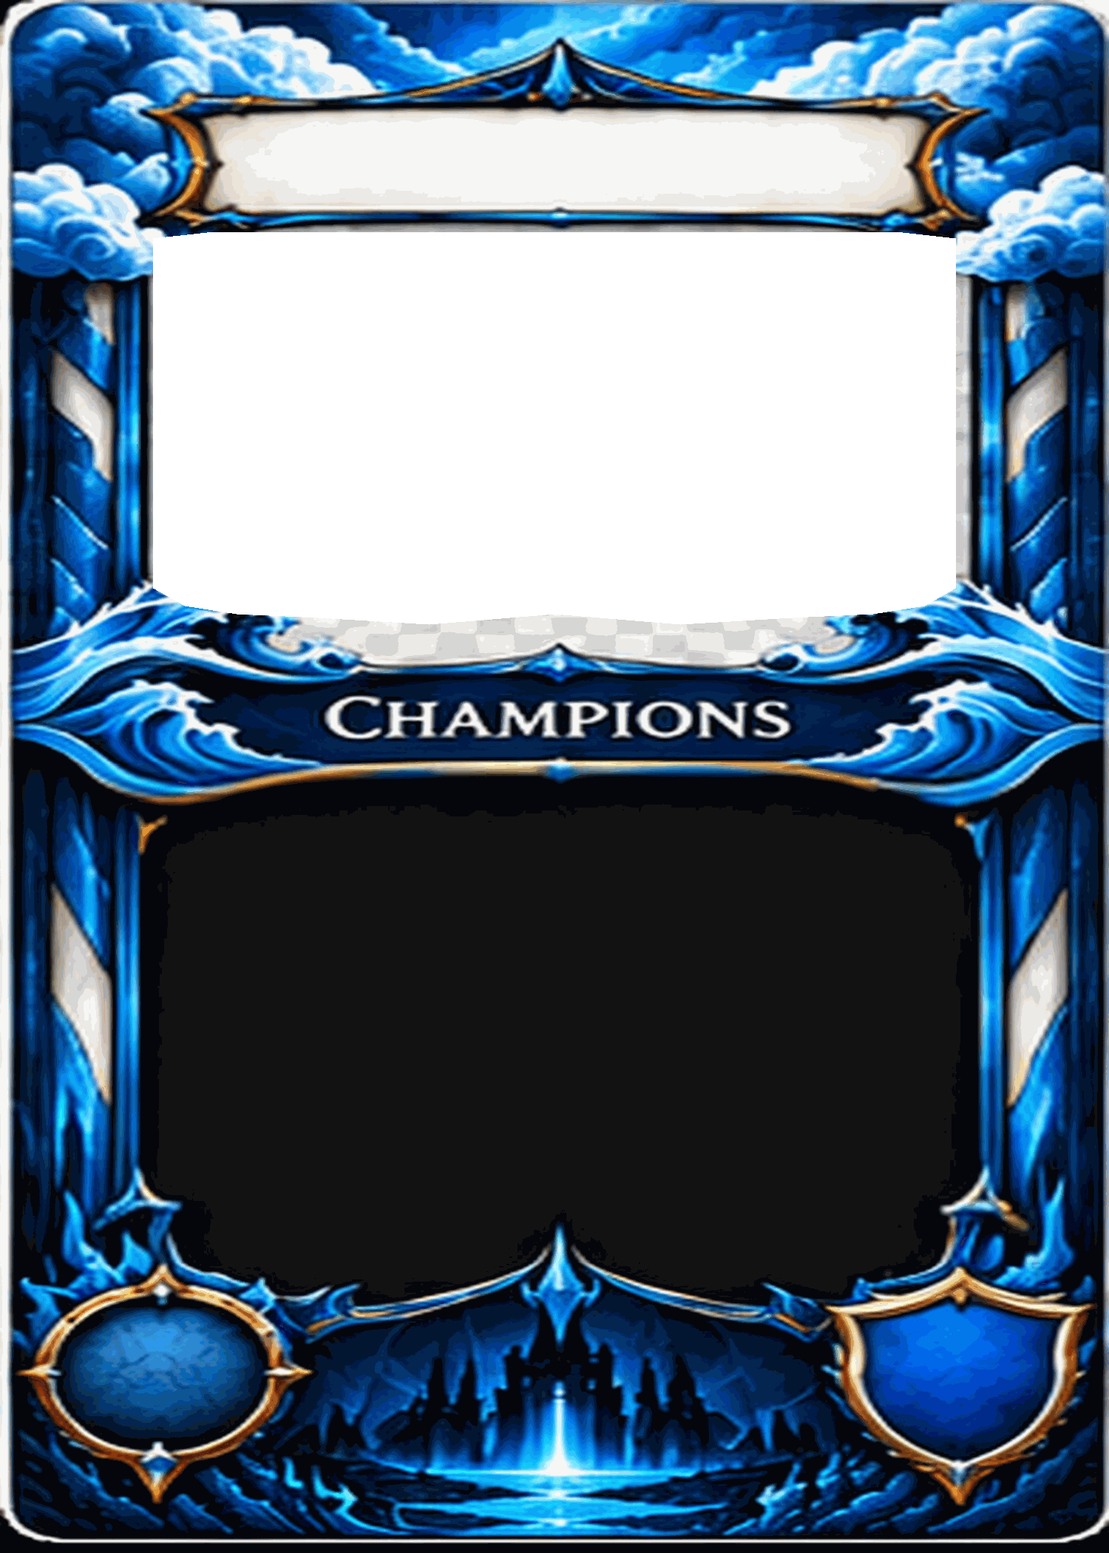
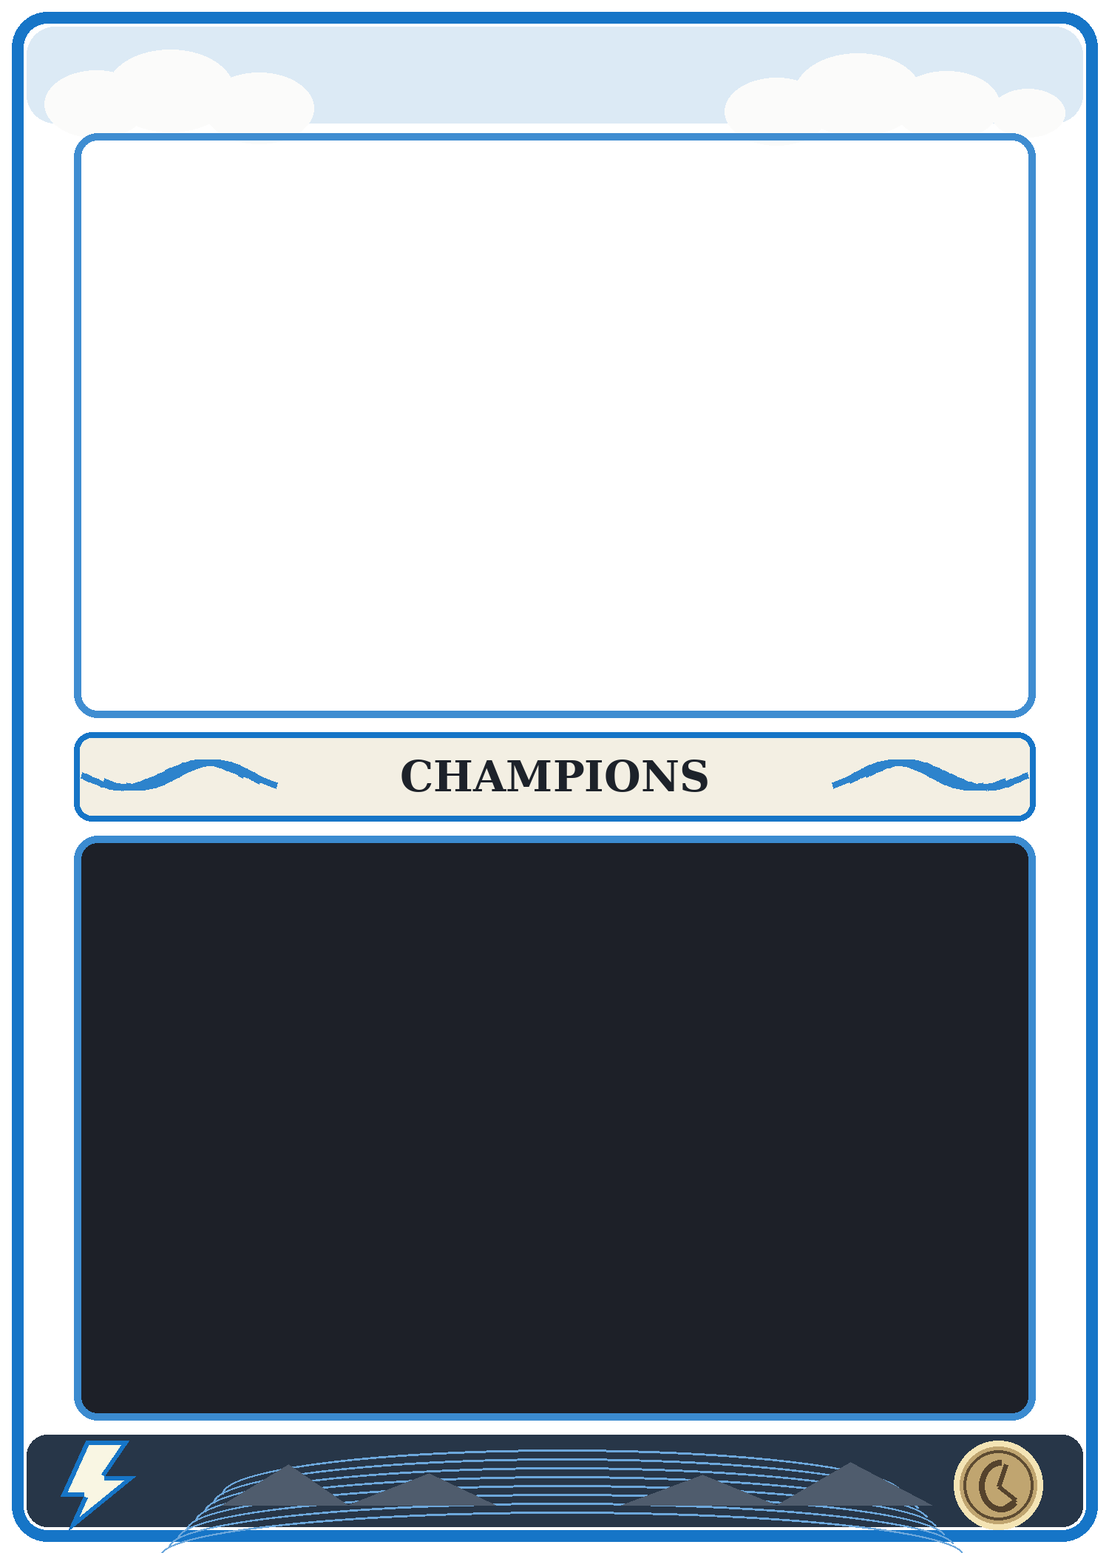
Add files via upload

diff --git a/app.js b/app.js
@@ -1,88 +1,115 @@
+
 'use strict';
-const W=1500,H=2100,artRect={x:205,y:315,w:1090,h:535};
-const $=id=>document.getElementById(id),canvas=$('card'),ctx=canvas.getContext('2d');
-let artwork=null,artData=null,frame=null,frameToken=0;
-const ids=['color','preset','variant','name','rules','cost','vp','zoom','x','y','customTextColor','textColor'];
-const frameCache={};
+const W=1500,H=2100, canvas=document.getElementById('card'),ctx=canvas.getContext('2d');
+const $=id=>document.getElementById(id);
+let art=null,artData=null,frame=null,token=0;
+const cache={};
 function loadFrame(){
   const key=$('color').value+'-'+$('variant').value;
-  const token=++frameToken;
-  if(frameCache[key]){frame=frameCache[key];render();return;}
-  // Works with images in frames/, in the website root, or assets/frames/.
-  // Relative URLs preserve the GitHub Pages repository prefix.
-  const candidates=['./'+key+'.png','./frames/'+key+'.png','./assets/frames/'+key+'.png'];
-  let next=0;
-  function tryNext(){
-    if(token!==frameToken)return;
-    if(next>=candidates.length){
-      frame=null;render();
-      alert('Unable to load frame: '+key+'\nChecked: '+candidates.join(', ')+'\nConfirm the PNG files are committed to the same published branch as index.html.');
-      return;
+  const n=++token;
+  if(cache[key]){frame=cache[key];render();return;}
+  const img=new Image();
+  img.onload=()=>{if(n!==token)return;frame=cache[key]=img;render();};
+  img.onerror=()=>{if(n!==token)return;frame=null;render();alert('Missing frame file: frames/'+key+'.png');};
+  img.src='frames/'+key+'.png';
+}
+function roundedPath(x,y,w,h,r){
+  ctx.beginPath();ctx.roundRect(x,y,w,h,r);
+}
+function textFit(value,x,y,maxWidth,maxSize,minSize,color){
+  const str=String(value||'');if(!str)return;
+  let size=maxSize;
+  do{ctx.font=`bold ${size}px Georgia,serif`;if(ctx.measureText(str).width<=maxWidth)break;size-=2;}while(size>minSize);
+  ctx.fillStyle=color;ctx.textAlign='center';ctx.textBaseline='middle';ctx.fillText(str,x,y,maxWidth);
+}
+function wrapText(value,maxWidth){
+  const lines=[];
+  for(const para of String(value||'').split('\n')){
+    let line='';
+    for(const word of para.split(/\s+/)){
+      const trial=line?line+' '+word:word;
+      if(line&&ctx.measureText(trial).width>maxWidth){lines.push(line);line=word;}else line=trial;
     }
-    const url=candidates[next++];
-    const im=new Image();
-    im.onload=()=>{if(token!==frameToken)return;frameCache[key]=im;frame=im;render();};
-    im.onerror=()=>{console.warn('Frame not found:',url);tryNext();};
-    im.src=url;
+    lines.push(line);
   }
-  tryNext();
-}
-// All text and medallion positions are in the 1500 x 2100 export coordinate system.
-function customColor(defaultColor){const toggle=$('customTextColor'),picker=$('textColor');return toggle&&picker&&toggle.checked?picker.value:defaultColor;}
-function fitText(text,x,y,maxWidth,size,color,align='center',weight=900){
-  if(!text)return;
-  ctx.save();ctx.textAlign=align;ctx.textBaseline='middle';ctx.fillStyle=color;
-  ctx.lineJoin='round';ctx.strokeStyle='rgba(0,0,0,.32)';ctx.lineWidth=3;
-  do{ctx.font=`${weight} ${size}px Georgia,serif`;if(ctx.measureText(String(text)).width<=maxWidth)break;size-=2;}while(size>23);
-  ctx.strokeText(String(text),x,y);ctx.fillText(String(text),x,y);ctx.restore();
-}
-function wrap(text,maxWidth){const lines=[];for(const paragraph of text.split('\n')){let line='';for(const word of paragraph.split(/\s+/).filter(Boolean)){const next=line?line+' '+word:word;if(ctx.measureText(next).width>maxWidth&&line){lines.push(line);line=word;}else line=next;}lines.push(line);}return lines;}
-// Artwork is clipped behind the ornamental top banner, side flourishes and lower crest.
-// Rounded/curved ends replace the old hard-edged rectangular artwork crop.
-function clipArtworkWindow(){
-  ctx.beginPath();
-  ctx.moveTo(280,314);ctx.lineTo(1220,314);
-  ctx.quadraticCurveTo(1292,314,1292,350);ctx.lineTo(1292,795);
-  ctx.bezierCurveTo(1240,828,1160,833,1070,835);
-  ctx.bezierCurveTo(930,844,840,830,750,830);
-  ctx.bezierCurveTo(660,830,570,844,430,835);
-  ctx.bezierCurveTo(340,833,260,828,207,795);
-  ctx.lineTo(207,350);ctx.quadraticCurveTo(207,314,280,314);
-  ctx.closePath();ctx.clip();
+  return lines;
 }
 function render(){
-  ctx.clearRect(0,0,W,H);ctx.fillStyle='#192536';ctx.fillRect(0,0,W,H);
-  if(artwork){ctx.save();ctx.beginPath();clipArtworkWindow();const zoom=+$('zoom').value,scale=Math.max(artRect.w/artwork.width,artRect.h/artwork.height)*zoom;const w=artwork.width*scale,h=artwork.height*scale;ctx.drawImage(artwork,artRect.x+(artRect.w-w)/2+(+$('x').value),artRect.y+(artRect.h-h)/2+(+$('y').value),w,h);ctx.restore();}
-  else{ctx.save();clipArtworkWindow();ctx.fillStyle='#2b3547';ctx.fillRect(artRect.x,artRect.y,artRect.w,artRect.h);ctx.restore();fitText('UPLOAD ARTWORK',750,690,800,58,'#afbac9');}
+  ctx.clearRect(0,0,W,H);
+  ctx.fillStyle='#1d2938';ctx.fillRect(0,0,W,H);
+  // Image is clipped to the exact common art opening, then the transparent frame overlays it.
+  ctx.save();roundedPath(106,186,1288,778,25);ctx.clip();
+  if(art){
+    const zoom=Number($('zoom').value)||1;
+    const scale=Math.max(1288/art.width,778/art.height)*zoom;
+    const w=art.width*scale,h=art.height*scale;
+    ctx.drawImage(art,750-w/2+Number($('x').value),575-h/2+Number($('y').value),w,h);
+  }else{
+    ctx.fillStyle='#b8c5ce';ctx.fillRect(100,180,1300,790);
+  }
+  ctx.restore();
   if(frame)ctx.drawImage(frame,0,0,W,H);
-  // Center medallions stay blank: ornamental waves only.
-  // Ornate wave flourishes are now baked into all 16 frame PNGs.
-  fitText($('name').value,750,208,1030,88,customColor('#18151a'));
+  // Clouds stay white; title sits at top-left with safe margins.
+  ctx.save();ctx.textAlign='left';ctx.textBaseline='middle';
+  let name=String($('name').value||'');let size=65;
+  while(size>30){ctx.font=`bold ${size}px Georgia,serif`;if(ctx.measureText(name).width<910)break;size-=2;}
+  ctx.fillStyle='#1b2737';ctx.fillText(name,150,103,920);
+  ctx.restore();
   const dark=$('variant').value==='black';
-  ctx.save();ctx.textAlign='left';ctx.textBaseline='top';ctx.font='700 52px Georgia,serif';
-  let y=1090;for(const line of wrap($('rules').value,1030)){
-    if(y>1640)break;
-    ctx.font='700 52px Georgia,serif';ctx.fillStyle=customColor(dark?'#ffffff':'#1b1a20');
-    ctx.lineWidth=1.7;ctx.strokeStyle='rgba(0,0,0,.17)';ctx.strokeText(line,230,y);ctx.fillText(line,230,y);y+=68;
-  }ctx.restore();
-  // Bottom cost and VP medallions, centered within the circular artwork.
-  if($('cost').value!=='')fitText($('cost').value,190,1860,150,128,customColor('#ffffff'));
-  if($('vp').value!=='')fitText($('vp').value,1310,1860,150,128,customColor('#ffffff'));
+  const rules=$('rules').value||'';
+  ctx.save();ctx.fillStyle=dark?'#f5f0e6':'#22252d';ctx.textAlign='left';ctx.textBaseline='top';
+  let lines=[],sz=54;
+  for(;sz>=29;sz-=2){ctx.font=`${sz}px Georgia,serif`;lines=wrapText(rules,1110);if(lines.length*sz*1.32<=650)break;}
+  ctx.font=`${sz}px Georgia,serif`;
+  let y=1210;
+  for(const line of lines){if(y+sz>1850)break;ctx.fillText(line,192,y);y+=sz*1.32;}
+  ctx.restore();
+  textFit($('vp').value,125,2012,90,73,36,'#ffffff');
+  textFit($('cost').value,1350,2012,88,69,35,'#28221b');
 }
-function applyPreset(){const p=$('preset').value;if(p==='fate'||p==='misfortune'){$('color').value='white';$('name').value=p==='fate'?'Fate':'Misfortune';$('rules').value=p==='fate'?'+1 Favor':'';$('cost').value='0';$('vp').value=p==='fate'?'0':'1';}loadFrame();}
-function download(url,name){const a=document.createElement('a');a.href=url;a.download=name;document.body.append(a);a.click();a.remove();}
-$('export').onclick=()=>download(canvas.toDataURL('image/png'),(($('name').value||$('color').value).toLowerCase().replace(/[^a-z0-9]+/g,'-')||'card')+'.png');
-$('save').onclick=()=>{const data=Object.fromEntries(ids.filter(id=>$(id)).map(id=>[id,id==='customTextColor'?$(id).checked:$(id).value]));data.artwork=artData;const url=URL.createObjectURL(new Blob([JSON.stringify(data,null,2)],{type:'application/json'}));download(url,'pantheon-card-project.json');setTimeout(()=>URL.revokeObjectURL(url),5000);};
-function setArtData(data){artData=data;if(!data){artwork=null;render();return;}const img=new Image();img.onload=()=>{artwork=img;render();};img.src=data;}
-$('art').onchange=e=>{const f=e.target.files?.[0];if(!f)return;const reader=new FileReader();reader.onload=()=>setArtData(reader.result);reader.readAsDataURL(f);};
-$('load').onchange=async e=>{const f=e.target.files?.[0];if(!f)return;try{const data=JSON.parse(await f.text());for(const id of ids)if(data[id]!=null&&$(id)){if(id==='customTextColor')$(id).checked=!!data[id];else $(id).value=data[id];}syncColorControl();setArtData(data.artwork||null);loadFrame();}catch(err){alert('Could not open project: '+err.message);}};
-$('reset').onclick=()=>{$('preset').value='custom';for(const id of ['name','rules','cost','vp'])$(id).value='';$('zoom').value=1;$('x').value=0;$('y').value=0;setArtData(null);render();};
-function syncColorControl(){const toggle=$('customTextColor'),picker=$('textColor');if(toggle&&picker)picker.disabled=!toggle.checked;render();}
-if($('customTextColor'))$('customTextColor').addEventListener('change',syncColorControl);if($('textColor'))$('textColor').addEventListener('input',render);
-$('preset').addEventListener('change',applyPreset);$('color').addEventListener('change',()=>{$('preset').value='custom';loadFrame();});$('variant').addEventListener('change',loadFrame);for(const id of ['name','rules','cost','vp','zoom','x','y'])$(id).addEventListener('input',render);
-try {
-  loadFrame();
-} catch (error) {
-  alert('Frame startup error: ' + error.message);
-  console.error(error);
+function setArtData(data){
+  artData=data;
+  if(!data){art=null;render();return;}
+  const img=new Image();
+  img.onload=()=>{art=img;render();};
+  img.onerror=()=>alert('Artwork could not be loaded.');
+  img.src=data;
 }
+$('art').addEventListener('change',e=>{
+  const f=e.target.files?.[0];if(!f)return;
+  const reader=new FileReader();reader.onload=()=>setArtData(reader.result);reader.readAsDataURL(f);
+});
+$('color').addEventListener('change',()=>{$('preset').value='custom';loadFrame();});
+$('variant').addEventListener('change',loadFrame);
+['name','rules','cost','vp','zoom','x','y'].forEach(id=>$(id).addEventListener('input',render));
+$('preset').addEventListener('change',()=>{
+  if($('preset').value==='fate'){$('name').value='Fate';$('rules').value='';$('cost').value='0';$('vp').value='0';}
+  if($('preset').value==='misfortune'){$('name').value='Misfortune';$('rules').value='';$('cost').value='0';$('vp').value='-1';}
+  render();
+});
+$('reset').addEventListener('click',()=>{
+  ['name','rules','cost','vp'].forEach(id=>$(id).value='');
+  $('zoom').value=1;$('x').value=0;$('y').value=0;$('art').value='';$('preset').value='custom';setArtData(null);
+});
+function download(blob,name){
+  const a=document.createElement('a');const u=URL.createObjectURL(blob);a.href=u;a.download=name;a.click();setTimeout(()=>URL.revokeObjectURL(u),1000);
+}
+$('export').addEventListener('click',()=>canvas.toBlob(blob=>{if(blob)download(blob,'pantheon-card.png');},'image/png'));
+$('save').addEventListener('click',()=>{
+  const data={};
+  for(const id of ['color','variant','preset','name','rules','cost','vp','zoom','x','y'])data[id]=$(id).value;
+  data.artData=artData;
+  download(new Blob([JSON.stringify(data)],{type:'application/json'}),'pantheon-project.json');
+});
+$('load').addEventListener('change',e=>{
+  const f=e.target.files?.[0];if(!f)return;
+  const reader=new FileReader();
+  reader.onload=()=>{
+    try{
+      const data=JSON.parse(reader.result);
+      for(const id of ['color','variant','preset','name','rules','cost','vp','zoom','x','y'])if(data[id]!==undefined)$(id).value=data[id];
+      setArtData(data.artData||null);loadFrame();
+    }catch(err){alert('Could not load project: '+err.message);}
+  };reader.readAsText(f);
+});
+loadFrame();

diff --git a/index.html b/index.html
@@ -1,1 +1,1 @@
-<!doctype html><html lang="en"><head><meta charset="utf-8"><meta name="viewport" content="width=device-width,initial-scale=1"><title>Pantheon Card Studio</title><link rel="stylesheet" href="style.css"></head><body><header><div class="brand">✦ PANTHEON <span>CARD STUDIO</span></div><small>DESIGN THE LEGENDS</small></header><main><section class="panel"><h2>Card design</h2><label>Card category<select id="color"><option value="white">Mortal · White</option><option value="blue">Champions · Blue</option><option value="orange">Relics · Rust Orange</option><option value="purple">Divine Sites · Purple</option><option value="red">Monsters · Red</option><option value="gold">Divine Blessings · Gold</option><option value="black">Typeless · Black</option><option value="teal">Blessings · Teal</option></select></label><label>Starting-card example<select id="preset"><option value="custom">Custom / blank</option><option value="fate">Fate</option><option value="misfortune">Misfortune</option></select></label><label>Rules panel<select id="variant"><option value="white">Ivory / white</option><option value="black">Black</option></select></label><label>Card title<input id="name" placeholder="Card name" value=""></label><label>Game text<textarea id="rules" rows="7" placeholder="Enter card abilities"></textarea></label><div class="pair"><label>Cost<input id="cost" placeholder="—" inputmode="numeric"></label><label>Victory points<input id="vp" placeholder="—" inputmode="numeric"></label></div><p class="note">Type names are built into the center banners. Black cards are typeless. Change the title freely.</p></section><section class="preview"><h1>Live preview</h1><canvas id="card" width="1500" height="2100" aria-label="Pantheon card preview"></canvas><div class="actions"><button id="export">Export PNG · 1500 × 2100</button><button id="reset">New blank card</button></div></section><section class="panel"><h2>Artwork & projects</h2><label>Upload artwork<input id="art" type="file" accept="image/*"></label><label>Artwork zoom<input id="zoom" type="range" min="0.5" max="3" step="0.01" value="1"></label><label>Horizontal position<input id="x" type="range" min="-500" max="500" value="0"></label><label>Vertical position<input id="y" type="range" min="-500" max="500" value="0"></label><div class="actions"><button id="save">Save project JSON</button><label class="upload">Load project JSON<input id="load" type="file" accept="application/json"></label></div><p class="note">Projects store artwork as an embedded data URL when possible. Large images create large project files. Everything runs locally in your browser.</p><p class="note">This release uses preview-derived frame artwork, not print-master illustrations. Check alignment and print proofs before manufacturing.</p></section></main><footer>2.5 × 3.5 inches · 5:7 aspect ratio · static GitHub Pages site</footer><script src="app.js"></script></body></html>
+<!doctype html><html lang="en"><head><meta charset="utf-8"><meta name="viewport" content="width=device-width,initial-scale=1"><title>Pantheon Card Studio</title><link rel="stylesheet" href="style.css"></head><body><header><div class="brand">✦ PANTHEON <span>CARD STUDIO</span></div><small>DESIGN THE LEGENDS</small></header><main><section class="panel"><h2>Card design</h2><label>Card category<select id="color"><option value="white">Mortal · White</option><option value="blue">Champions · Blue</option><option value="orange">Relics · Rust Orange</option><option value="purple">Divine Sites · Purple</option><option value="red">Monsters · Red</option><option value="gold">Divine Blessings · Gold</option><option value="black">Typeless · Black</option><option value="teal">Blessings · Teal</option></select></label><label>Starting-card example<select id="preset"><option value="custom">Custom / blank</option><option value="fate">Fate</option><option value="misfortune">Misfortune</option></select></label><label>Rules panel<select id="variant"><option value="white">Ivory / white</option><option value="black">Black</option></select></label><label>Card title<input id="name" placeholder="Card name" value=""></label><label>Game text<textarea id="rules" rows="7" placeholder="Enter card abilities"></textarea></label><div class="pair"><label>Cost<input id="cost" placeholder="—" inputmode="numeric"></label><label>Victory points<input id="vp" placeholder="—" inputmode="numeric"></label></div><p class="note">Type names are built into the center banners. Black cards are typeless. Change the title freely.</p></section><section class="preview"><h1>Live preview</h1><canvas id="card" width="1500" height="2100" aria-label="Pantheon card preview"></canvas><div class="actions"><button id="export">Export PNG · 1500 × 2100</button><button id="reset">New blank card</button></div></section><section class="panel"><h2>Artwork & projects</h2><label>Upload artwork<input id="art" type="file" accept="image/*"></label><label>Artwork zoom<input id="zoom" type="range" min="0.5" max="3" step="0.01" value="1"></label><label>Horizontal position<input id="x" type="range" min="-500" max="500" value="0"></label><label>Vertical position<input id="y" type="range" min="-500" max="500" value="0"></label><div class="actions"><button id="save">Save project JSON</button><label class="upload">Load project JSON<input id="load" type="file" accept="application/json"></label></div><p class="note">Projects store artwork as an embedded data URL when possible. Large images create large project files. Everything runs locally in your browser.</p><p class="note">New unified 16-frame draft. Upload your own artwork; all frames share identical geometry. Review print proofs before manufacturing.</p></section></main><footer>2.5 × 3.5 inches · 5:7 aspect ratio · static GitHub Pages site</footer><script src="app.js"></script></body></html>

diff --git a/style.css b/style.css
@@ -1,1 +1,13 @@
-:root{color-scheme:dark;font-family:system-ui,-apple-system,Segoe UI,sans-serif;background:#090d16;color:#f5f1e9}*{box-sizing:border-box}body{margin:0}header{padding:19px 30px;border-bottom:1px solid #374151;display:flex;justify-content:space-between;align-items:center;background:#121b2a}.brand{font-weight:900;letter-spacing:.16em;color:#e6c789}.brand span{color:#fff}header small{letter-spacing:.2em;color:#9aa8bd}main{display:grid;grid-template-columns:minmax(240px,1fr) minmax(300px,1.25fr) minmax(240px,1fr);gap:20px;max-width:1550px;margin:auto;padding:24px}.panel{background:#151d2b;border:1px solid #354255;border-radius:15px;padding:20px;align-self:start}h1,h2{font-family:Georgia,serif;margin:0 0 18px}h1{text-align:center;font-size:24px}.panel label{display:block;font-size:13px;font-weight:700;color:#cbd5e1;margin:14px 0}.panel input:not([type=range]):not([type=file]),select,textarea{width:100%;padding:11px;border:1px solid #566174;border-radius:8px;background:#0c1320;color:#fff;margin-top:7px;font:inherit}input[type=file],input[type=range]{display:block;width:100%;margin-top:10px}textarea{resize:vertical}.pair{display:grid;grid-template-columns:1fr 1fr;gap:12px}.preview{display:flex;flex-direction:column;align-items:center;gap:15px}canvas{width:min(100%,430px);height:auto;aspect-ratio:5/7;box-shadow:0 18px 45px #000b;border-radius:8px;background:#232c3c}.actions{display:flex;flex-wrap:wrap;gap:10px;justify-content:center}button,.upload{background:#c8a664;color:#101725;border:0;border-radius:9px;padding:12px 14px;font-weight:800;cursor:pointer}button:hover{background:#efd29c}.upload input{max-width:170px}.note,footer{font-size:12px;color:#9eacc0;line-height:1.6}footer{text-align:center;padding:22px}@media(max-width:1050px){main{grid-template-columns:1fr 1fr}.preview{grid-column:2;grid-row:1/3}}@media(max-width:700px){main{display:flex;flex-direction:column;padding:12px}.preview{order:-1;width:100%}canvas{max-width:330px}header{padding:14px}header small{display:none}}
+
+*{box-sizing:border-box}body{margin:0;background:#080d18;color:#f2eee8;font:16px system-ui,sans-serif}
+header{padding:18px 5%;background:#131f30;border-bottom:1px solid #42516b;display:flex;justify-content:space-between;align-items:center;gap:10px}
+.brand{font-size:clamp(18px,3vw,29px);font-weight:800;letter-spacing:.13em;color:#e6c27c}.brand span{color:#eee}
+main{max-width:1300px;margin:30px auto;padding:0 18px;display:grid;grid-template-columns:minmax(240px,1fr) minmax(280px,1.1fr);gap:22px;align-items:start}
+.panel{background:#172030;border:1px solid #3a4658;border-radius:22px;padding:24px}.panel:last-child{grid-column:1/-1}
+h1,h2{font-family:Georgia,serif}h1{text-align:center;margin:0 0 20px}h2{font-size:30px;margin:0 0 18px}
+label{display:block;margin:13px 0;color:#d1d6de;font-weight:600}input,select,textarea{display:block;width:100%;margin-top:7px;background:#0d1625;border:1px solid #728099;border-radius:10px;color:white;padding:12px;font:inherit}
+input[type=range]{padding:0}input[type=file]{font-size:13px}textarea{resize:vertical}.pair{display:grid;grid-template-columns:1fr 1fr;gap:12px}
+.preview{min-width:0;text-align:center}canvas{display:block;width:min(100%,480px);height:auto;margin:auto;border-radius:12px;box-shadow:0 8px 32px #0008}
+.actions{display:flex;gap:12px;flex-wrap:wrap;justify-content:center;margin:18px 0}button,.upload{background:#d5ae6a;border:0;border-radius:12px;color:#111827;padding:13px 18px;font-weight:800;cursor:pointer}
+.upload input{display:none}.note{font-size:13px;color:#b9c2cf;line-height:1.5}footer{text-align:center;padding:25px;color:#b9c2cf}
+@media(max-width:800px){main{display:flex;flex-direction:column}.preview{order:-1;width:100%}.panel{width:100%}header small{display:none}}

diff --git a/README.md b/README.md
@@ -1,9 +1,11 @@
-# Pantheon Card Studio V8 — Option 3 (Balanced Increase)
+# Pantheon Card Studio — unified frame draft
+Upload all contents of this ZIP to the root of your GitHub Pages repository, preserving `frames/`.
 
-GitHub Pages: upload the CONTENTS of this folder into your repository root. Keep `frames/` as a folder, not flattened.
-
-This update preserves 8 colors × 2 rules panel variants (16 frames), the working fallback frame loader, title and rules editing, cost and VP, color checkbox, and JSON projects. It applies the selected Option 3 proportions: reduced artwork, enlarged rules area and slightly reduced underworld art. Artwork windows are transparent PNG alpha and the browser applies the same shaped clipping.
-
-IMPORTANT: Gold, blue, purple, red, and black were rebuilt from the 10 exact user-supplied source images. Matching source files for orange, teal, and white were not supplied; those 6 frames are adapted from existing V7.2 assets and are visually provisional. Also, the provided reference images contain baked-in checkerboard patterns; transparency was recreated geometrically, so please visually proof the frame edges before printing.
-
-Cards: 1500 × 2100 px, 5:7. The black category is typeless. Gold = Divine Blessings.
+- `index.html`, `style.css`, `app.js`, `.nojekyll`
+- `frames/`: 16 new 1500 × 2100 PNGs, 8 colors × ivory/black rules panels
+- All frames have identical geometry and a transparent artwork window. Upload artwork in the editor.
+- The title sits on white clouds at the top left; type is printed on the wave banner.
+- Lightning at bottom left is VP, coin at bottom right is cost.
+- Frame artwork is a new programmatic concept draft, **not** the original detailed illustration or print-ready art.
+- Art and rules panels both measure 1300 × 790 px; header and footer occupy 130 px of content each, with margin.
+- Existing saved project JSON can be loaded, but check text and artwork positioning after updating.
